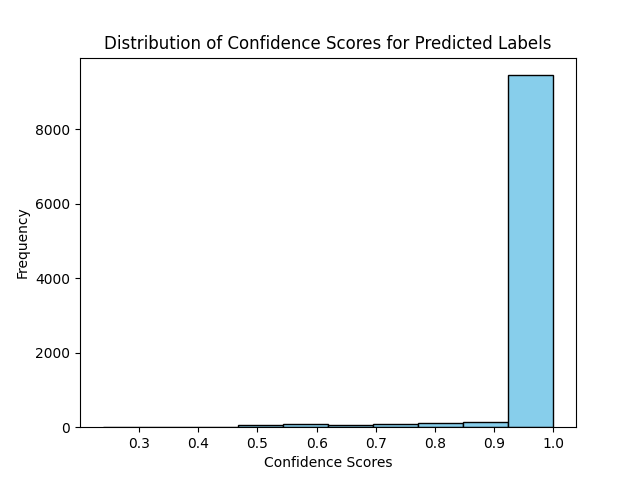
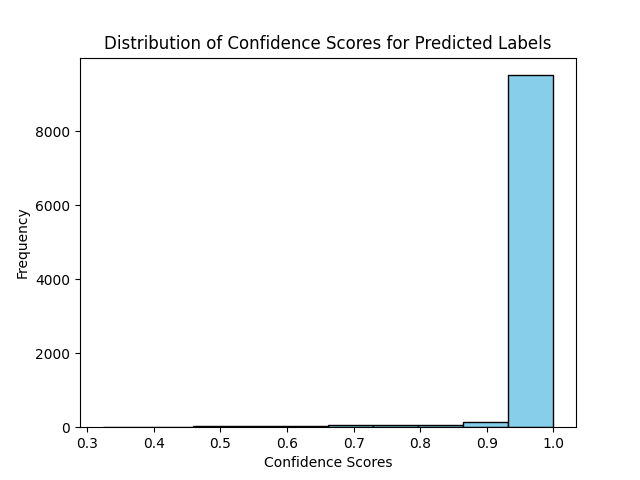
Finalised README and code formatting

diff --git a/main.py b/main.py
@@ -84,14 +84,14 @@ if not os.path.exists(tflow_dir):
 # Display and compare key metrics for both models based on predictions
 epoch_list = list(range(1, epochs + 1))
 
-training_progress(epoch_list, model_scratch.training_accuracies, model_scratch.training_losses, scratch_dir, False)
-training_progress(epoch_list, model_tflow.training_accuracies, model_tflow.training_losses, tflow_dir, False)
+training_progress(epoch_list, model_scratch.training_accuracies, model_scratch.training_losses, scratch_dir, True)
+training_progress(epoch_list, model_tflow.training_accuracies, model_tflow.training_losses, tflow_dir, True)
 
-confusion_matrix_ad(y_test_lab, y_pred_scratch, num_classes, scratch_dir, False)
-confusion_matrix_ad(y_test_lab, y_pred_tflow, num_classes, tflow_dir, False)
+confusion_matrix_ad(y_test_lab, y_pred_scratch, num_classes, scratch_dir, True)
+confusion_matrix_ad(y_test_lab, y_pred_tflow, num_classes, tflow_dir, True)
 
-confidence_distribution(y_pred_scratch_scores, scratch_dir, False)
-confidence_distribution(y_pred_tflow_scores, tflow_dir, False)
+confidence_distribution(y_pred_scratch_scores, scratch_dir, True)
+confidence_distribution(y_pred_tflow_scores, tflow_dir, True)
 
 classification_report_ad(y_test_lab, y_pred_scratch, scratch_dir)
 classification_report_ad(y_test_lab, y_pred_tflow, tflow_dir)

diff --git a/nn_from_scratch.py b/nn_from_scratch.py
@@ -333,3 +333,4 @@ class NeuralNetwork:
         activated = np.maximum(0, inactive)
         
         return activated
+    

diff --git a/README.md b/README.md
@@ -1,2 +1,71 @@
-# Predicting-MNIST-Digits
-Involves the development of a neural network from scratch and its performance comparison with a TensorFlow model on the MNIST digits dataset.
+# Predicting MNIST Digits
+
+This project showcases a custom implementation of a neural network built from scratch in Python, focusing on its performance comparison with an equivalent TensorFlow model on the MNIST dataset. The goal is to understand the fundamentals of a neural network whilst achieving a high-level of performance dictated by various metrics.
+
+## Installation
+
+This script requires Python 3 and the following dependencies:
+
+- Keras (import MNIST dataset)
+- Matplotlib (plotting results)
+- NumPy (manipulating arrays and apply mathematical operations)
+- Os-sys (create new file directories and save outputs)
+- Scikit-learn (model evaluation and performance metrics)
+- TensorFlow (build and train neural network)
+- Tqdm (monitor training progress)
+
+```bash
+pip install keras
+pip install matplotlib
+pip install numpy
+pip install os-sys
+pip install scikit-learn
+pip install tensorflow
+pip install tdqm
+```
+    
+## Usage
+
+To view the project, follow these steps:
+- Clone the repository or download a zip file containing the scripts.
+- Ensure you have installed the required dependencies.
+- Run the main.py script directly within your IDE of choice or in the command-line interface:
+```bash
+python main.py
+```
+- If you would like to modify the number of layers in the network or other model parameters, you can do so within the main.py script as shown below:
+![Model Initialisation](image.png)
+
+## Model Overview
+
+For a fair comparison, both models share the same architecture:
+
+**Neural Network Configuration**
+   - An input layer containing 784 neurons for each of the image pixels in the MNIST dataset (28 x 28).
+   - First hidden layer contains 256 neurons (ReLU activation function).
+   - Second hidden layer contains 128 neurons (ReLU activation function).
+   - Output layer contain 10 neurons to represent the probabilities for each of the digit classes (Softmax activation function).
+
+**Initialisers**
+   - Weights are initialised using the Glorot approach.
+   - Biases are intiailised as zeros.
+
+**Loss**
+   - Categorical Cross-Entropy for multi-classification.
+
+**Optimiser**
+   - RMSProp with "cached" weights and biases that update with each batch.
+   - Learning rate of 0.001.
+   - Decay rate of 0.9.
+
+**Other Model Parameters**
+   - Models were trained for 10 epochs each.
+   - Batch-size of 32.
+   - 60,000 training images from the MNIST dataset.
+
+## Results
+Both models achieved very high accuracies on the test set comprised of 10,000 images:
+- Model from scratch: **97.28%**
+- TensorFlow: **97.99%**
+
+Whilst both models were quite comparable in terms of their performance, the latter slightly edged out the former across most evaluation metrics (found within the metrics folder). Further work includes investigating the TensorFlow Sequential model source code and comparing it to the custom implementation to understand any disparities in the logic.
